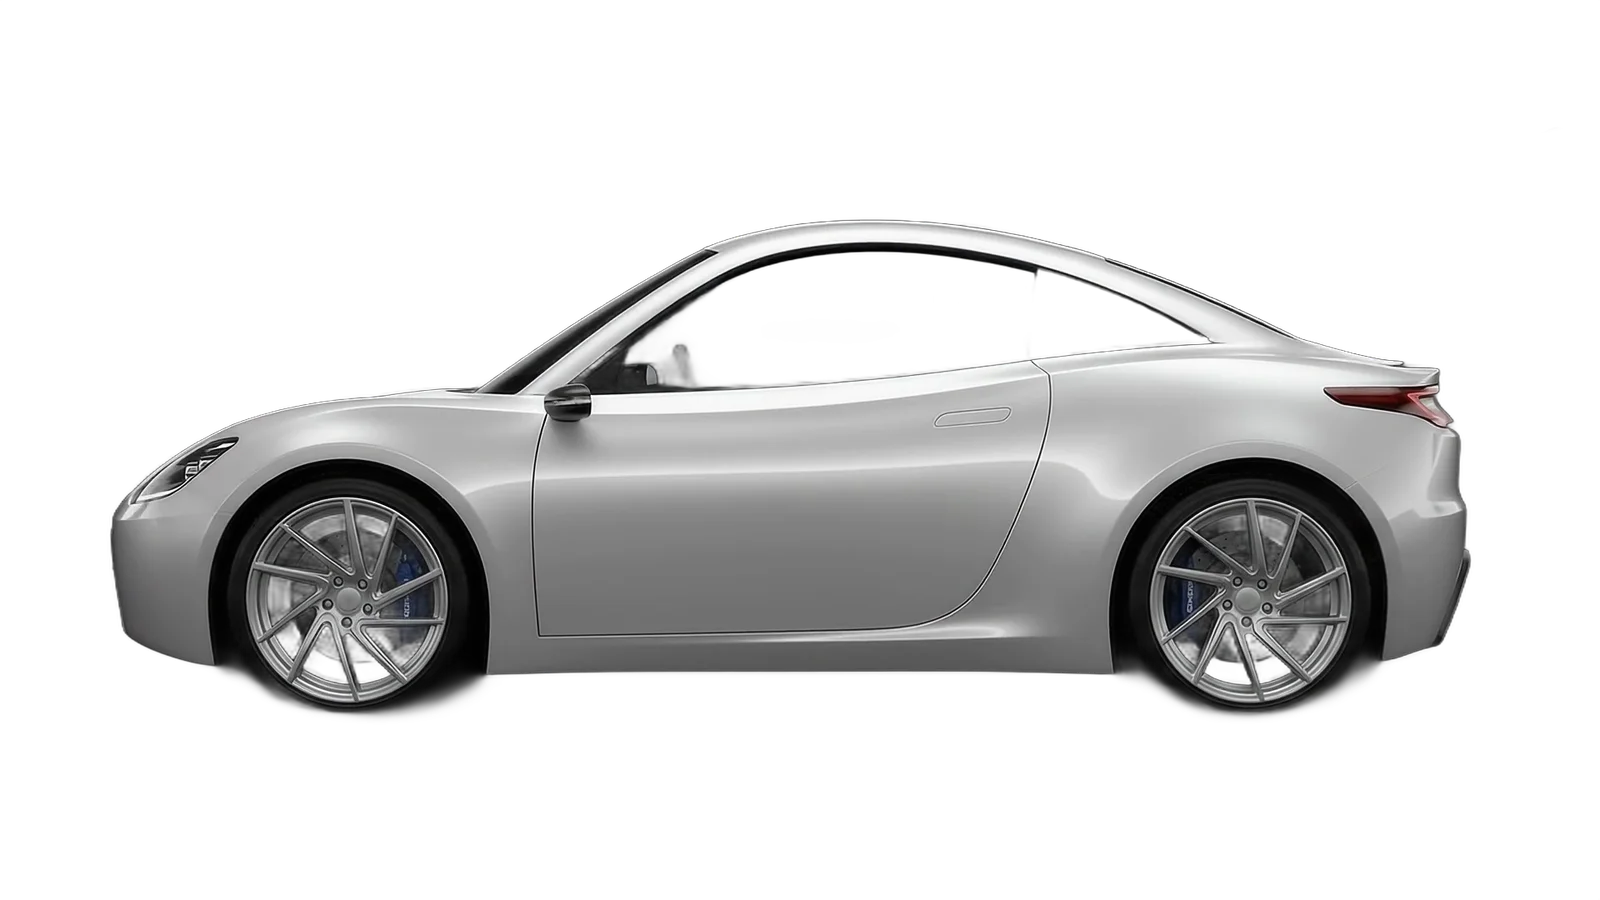
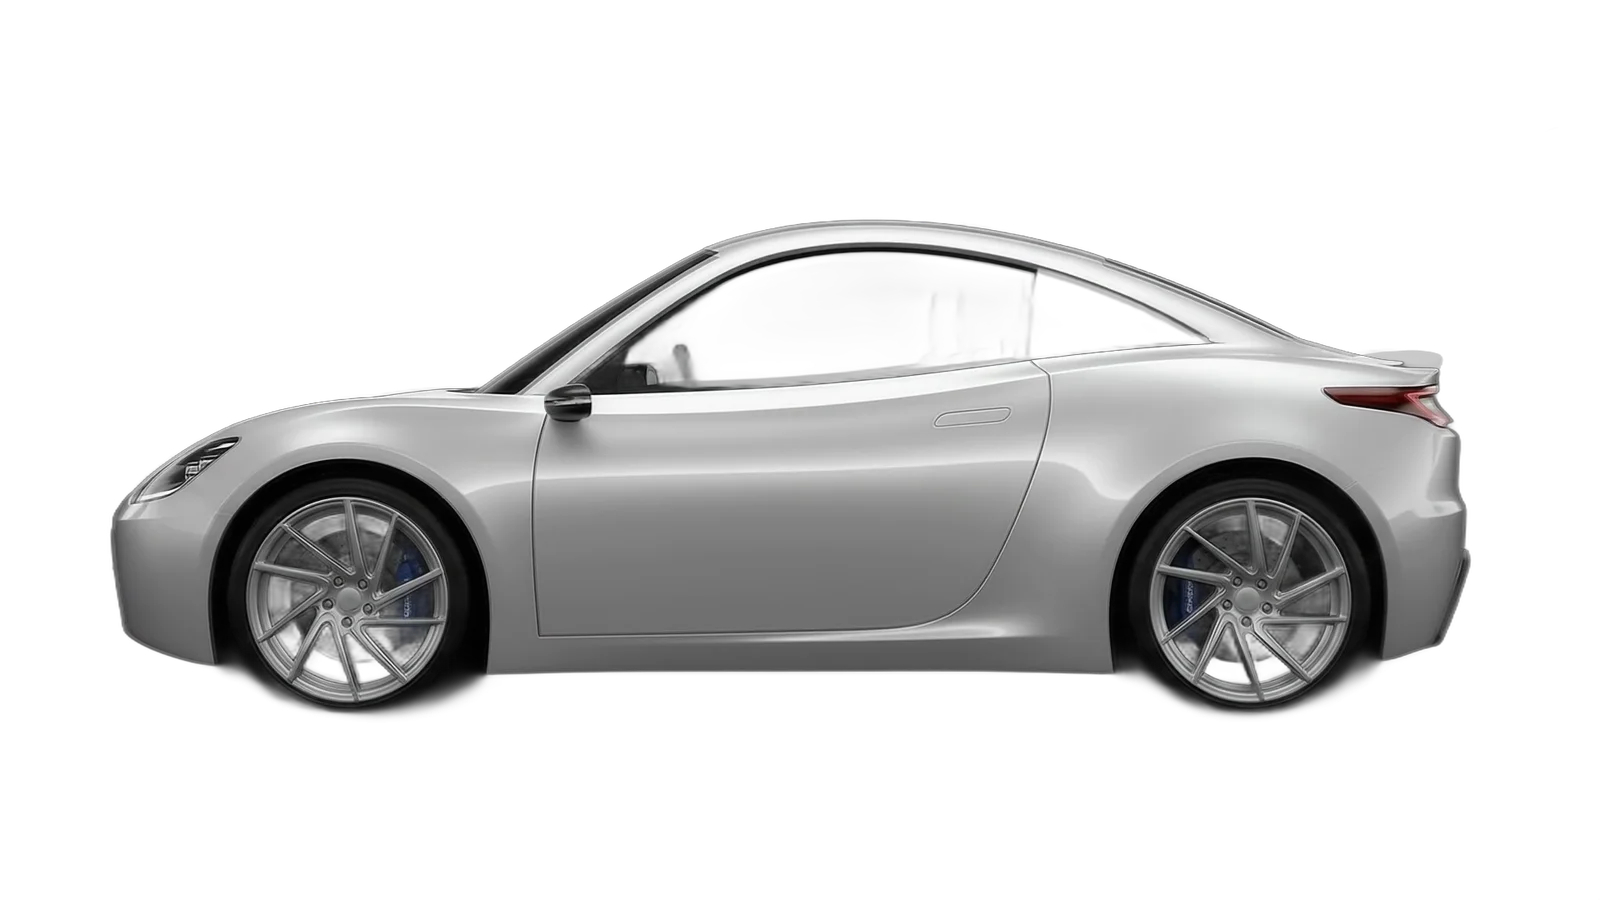
Hero: open on the fully finished car again
Restore the settled frames at the top of the hero (roof, door and rear
spoiler in place) that the door fix had removed, without bringing back
the second door fly-in: the sequence now crossfades the finished car
into the clean pre-spoiler frames, so the spoiler fades rather than
flying in. 130 frames.

Also fall back to the nearest decoded frame when one is missing, so a
stale cached bundle asking for frames that no longer exist still paints
the car instead of leaving the canvas blank.

diff --git a/src/components/HeroDisassembly.tsx b/src/components/HeroDisassembly.tsx
@@ -37,10 +37,23 @@ export function HeroDisassembly({ framesFolder, frameCount, triggerRef, revealRe
   const sourceIndex = (step: number) => frameCount - 1 - step;
   const framePath = (i: number) => `/frames/${framesFolder}/frame_${String(i + 1).padStart(4, "0")}.webp`;
 
+  /** Nearest step that actually has a decoded frame, so a stale bundle asking
+   *  for frames that no longer exist still paints something sensible. */
+  function nearestLoaded(step: number): HTMLImageElement | null {
+    const images = imagesRef.current;
+    for (let d = 0; d < images.length; d++) {
+      const before = images[step - d];
+      if (before?.complete && before.naturalWidth > 0) return before;
+      const after = images[step + d];
+      if (after?.complete && after.naturalWidth > 0) return after;
+    }
+    return null;
+  }
+
   function draw(step: number) {
     const canvas = canvasRef.current;
-    const img = imagesRef.current[step];
-    if (!canvas || !img || !img.complete) return;
+    const img = nearestLoaded(step);
+    if (!canvas || !img) return;
     const ctx = canvas.getContext("2d");
     if (!ctx) return;
 
@@ -88,11 +101,16 @@ export function HeroDisassembly({ framesFolder, frameCount, triggerRef, revealRe
     }
 
     async function loadAll() {
-      await loadStep(0);
+      let first = 0;
+      await loadStep(first);
+      while (first < frameCount - 1 && !(images[first]?.naturalWidth > 0)) {
+        first += 1;
+        await loadStep(first);
+      }
       imagesRef.current = images;
       if (cancelled) return;
       setReady(true);
-      draw(0);
+      draw(first);
 
       for (let start = 1; start < frameCount; start += PRELOAD_CHUNK) {
         if (cancelled) return;

diff --git a/src/pages/Home.tsx b/src/pages/Home.tsx
@@ -37,7 +37,7 @@ export function Home() {
       <section className="hero" ref={heroRef}>
         <HeroDisassembly
           framesFolder="ev-assembly-v3"
-          frameCount={128}
+          frameCount={130}
           triggerRef={heroRef}
           revealRef={heroActionsRef}
         />
